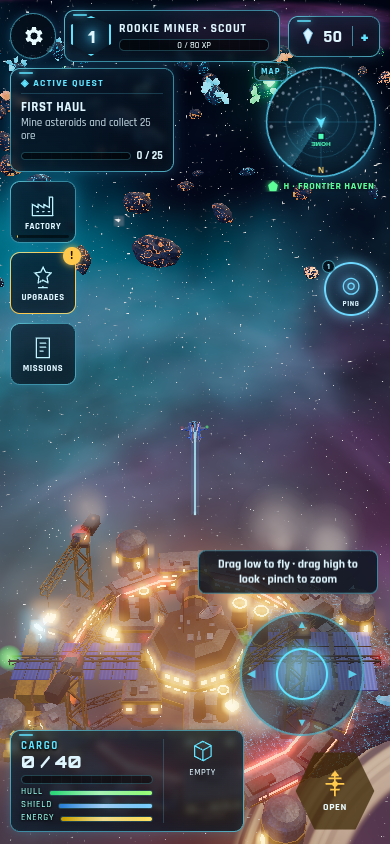
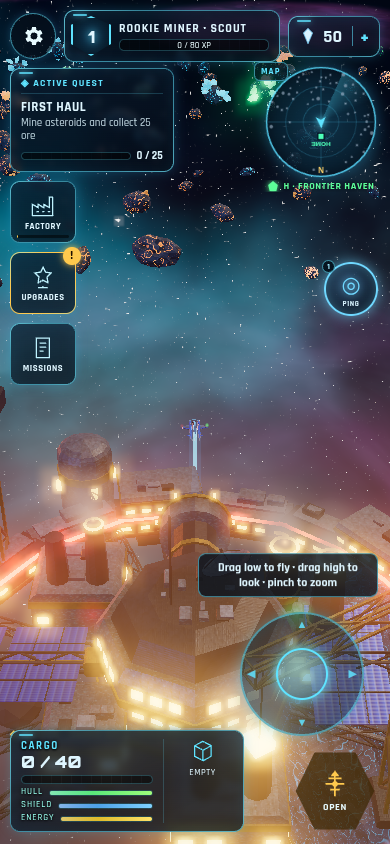
v14: restore station capital scale with glb, cache-bust v14, About text, in-game shots at true scale

diff --git a/src/game.js b/src/game.js
@@ -1,29 +1,29 @@
 // Core game: state, player ship, weapons, enemies, economy, quests, saving
 import * as THREE from 'three';
-import { clamp, lerp, damp, rand, randInt, pick, angleDiff, TAU } from './util.js?v=13';
-import { MINERALS, MINERAL_KEYS, SECTORS, sectorAt, BOSS_LAIR, TIERS, STATION_LEVELS, UPGRADES, upgradeCost, ENEMIES, xpForLevel } from './data.js?v=13';
-import { buildShip, makeTurret, makeFlames, buildPirate, buildStation, animateStation, animateNavLights, disposeObject, glowTexture, tintPirate, buildInstallation, makeDome, rarityRing, buildLootPod, buildCacheCrate, buildInstallationV5, buildFlagship, buildBossPart, factionMats, retint } from './models.js?v=13';
-import { Campaign, FLEET } from './campaign.js?v=13';
-import { roleAI } from './ai.js?v=13';
-import { BOSS_BY_BP } from './bosses.js?v=13';
-import { RING_L0, TTK, ttkHp, shipK, dmgK } from './balance.js?v=13';
-import { newGame, readKey, writeKey, deleteKey, slotKey, meta, exportCode, importCode, AUTO_KEY, SLOT_COUNT, INV_CAP } from './save.js?v=13';
-import { SKILLS, SKILL_BY_ID, ABILITIES, ABILITY_ORDER, ROLE_ABILITIES, spEarned, spSpent, skillFx, skillState, skillCost, respecCost } from './rpg.js?v=13';
-import { RARITIES, TEMPLATES, makeItem, itemStats, itemPower, upgradeCost as itemUpCost, salvageValue, rollLoot, lootChance, merchantStock } from './items.js?v=13';
-import { FACTIONS, GSECTORS, SECTOR_BY_ID, gsectorAt, caches, liberation, owner, dangerOf, isPirate, neighbours, bindWorld } from './galaxy.js?v=13';
-import { AsteroidField, Minerals } from './world.js?v=13';
-import { Particles, Debris, Rings, Bolts, Flashes, BOLT_TIME } from './fx.js?v=13';
-import { FXManager, Sequencer, EnergyShells, MetalDebris, makeShieldMaterial, ShieldFX, ShieldBubbles, prepareDamage, ensureDamage, releaseDamage, DMG_TIME, DMG_STATS, plasmaMaterial } from './vfx.js?v=13';
-import { STORY, makeContract } from './quests.js?v=13';
-import { Phenomena } from './phenomena.js?v=13';
-import { Wrecks } from './structures.js?v=13';
-import { ExplosionManager, classify, PROFILES } from './explosions.js?v=13';
-import { HULLS, HULL_IDS, buildHull, ENEMY_HULL, FLAGSHIP_HULL, FACTION_PAINT, hullSegs, MAIN_PATH } from './hulls.js?v=13';
-import { HullLOD } from './lod.js?v=13';
-import { hideTurret } from './glbhulls.js?v=13';
-import { buildStationAny } from './glbenv.js?v=13';
-import { CAM_PRESETS, DEG, angDiff } from './camctl.js?v=13';
-import { FlightModel, SpatialHash, collideCircles, sweptCircle, TIER_MASS, massOf, rockMass, assistValue } from './physics.js?v=13';
+import { clamp, lerp, damp, rand, randInt, pick, angleDiff, TAU } from './util.js?v=14';
+import { MINERALS, MINERAL_KEYS, SECTORS, sectorAt, BOSS_LAIR, TIERS, STATION_LEVELS, UPGRADES, upgradeCost, ENEMIES, xpForLevel } from './data.js?v=14';
+import { buildShip, makeTurret, makeFlames, buildPirate, buildStation, animateStation, animateNavLights, disposeObject, glowTexture, tintPirate, buildInstallation, makeDome, rarityRing, buildLootPod, buildCacheCrate, buildInstallationV5, buildFlagship, buildBossPart, factionMats, retint } from './models.js?v=14';
+import { Campaign, FLEET } from './campaign.js?v=14';
+import { roleAI } from './ai.js?v=14';
+import { BOSS_BY_BP } from './bosses.js?v=14';
+import { RING_L0, TTK, ttkHp, shipK, dmgK } from './balance.js?v=14';
+import { newGame, readKey, writeKey, deleteKey, slotKey, meta, exportCode, importCode, AUTO_KEY, SLOT_COUNT, INV_CAP } from './save.js?v=14';
+import { SKILLS, SKILL_BY_ID, ABILITIES, ABILITY_ORDER, ROLE_ABILITIES, spEarned, spSpent, skillFx, skillState, skillCost, respecCost } from './rpg.js?v=14';
+import { RARITIES, TEMPLATES, makeItem, itemStats, itemPower, upgradeCost as itemUpCost, salvageValue, rollLoot, lootChance, merchantStock } from './items.js?v=14';
+import { FACTIONS, GSECTORS, SECTOR_BY_ID, gsectorAt, caches, liberation, owner, dangerOf, isPirate, neighbours, bindWorld } from './galaxy.js?v=14';
+import { AsteroidField, Minerals } from './world.js?v=14';
+import { Particles, Debris, Rings, Bolts, Flashes, BOLT_TIME } from './fx.js?v=14';
+import { FXManager, Sequencer, EnergyShells, MetalDebris, makeShieldMaterial, ShieldFX, ShieldBubbles, prepareDamage, ensureDamage, releaseDamage, DMG_TIME, DMG_STATS, plasmaMaterial } from './vfx.js?v=14';
+import { STORY, makeContract } from './quests.js?v=14';
+import { Phenomena } from './phenomena.js?v=14';
+import { Wrecks } from './structures.js?v=14';
+import { ExplosionManager, classify, PROFILES } from './explosions.js?v=14';
+import { HULLS, HULL_IDS, buildHull, ENEMY_HULL, FLAGSHIP_HULL, FACTION_PAINT, hullSegs, MAIN_PATH } from './hulls.js?v=14';
+import { HullLOD } from './lod.js?v=14';
+import { hideTurret } from './glbhulls.js?v=14';
+import { buildStationAny } from './glbenv.js?v=14';
+import { CAM_PRESETS, DEG, angDiff } from './camctl.js?v=14';
+import { FlightModel, SpatialHash, collideCircles, sweptCircle, TIER_MASS, massOf, rockMass, assistValue } from './physics.js?v=14';
 
 export const STATION_SCALE = 2; // v8: the home station is built at capital-ship scale
 const DOCK_R = 54;
@@ -167,7 +167,8 @@ export class Game {
   // ---------- station ----------
   buildStationModel() {
     if (this.stationRoot) { this.scene.remove(this.stationRoot); disposeObject(this.stationRoot); }
-    this.stationRoot = buildStationAny(this.s.stationLvl, this.field.stationMat, (lv) => { if (lv === this.s.stationLvl && this.stationRoot && !this.stationRoot.userData.glb) this.buildStationModel(); }); // v14: Blender station when loaded this.stationRoot.scale.setScalar(STATION_SCALE); // v8: sized against capital hulls
+    this.stationRoot = buildStationAny(this.s.stationLvl, this.field.stationMat, (lv) => { if (lv === this.s.stationLvl && this.stationRoot && !this.stationRoot.userData.glb) this.buildStationModel(); }); // v14: Blender station when loaded
+    this.stationRoot.scale.setScalar(STATION_SCALE); // v8: sized against capital hulls
     const ud = this.stationRoot.userData; ud.dockPortW = ud.dockPort.clone().multiplyScalar(STATION_SCALE); for (const v of ud.anim.stacks || []) v.multiplyScalar && v.multiplyScalar(STATION_SCALE);
     this.scene.add(this.stationRoot);
   }

diff --git a/src/ui.js b/src/ui.js
@@ -1,19 +1,19 @@
 // HUD, joystick, radar and menus (DOM overlay)
-import { MINERALS, MINERAL_KEYS, TIERS, STATION_LEVELS, UPGRADES, upgradeCost, xpForLevel, LEVEL_TITLES, sectorAt } from './data.js?v=13';
-import { BRANCHES, SKILLS, SKILL_BY_ID, ABILITIES, skillCost } from './rpg.js?v=13';
-import { RARITIES, TEMPLATES, CATS, SPECIALS, itemStats, itemPower, upgradeCost as itemUpCost, salvageValue, merchantStock } from './items.js?v=13';
-import { FACTIONS, FACTION_KEYS, INSIGNIA, GSECTORS, SECTOR_BY_ID, RINGS, MAP_R, gsectorAt, installations, caches, liberation, libStages, owner, isPirate, isHome, threatLabel, neighbours, NEUTRAL, INST_KINDS, LAIRS, HOME, instName, STAGES } from './galaxy.js?v=13';
-import { factionStats, WAR_LEVELS, allied } from './war.js?v=13';
-import { BOSSES, BOSS_BY_BP, ATTACKS } from './bosses.js?v=13';
-import { MTYPES, MAX_ACTIVE, missionTitle } from './missions.js?v=13';
-import { INV_CAP } from './save.js?v=13';
-import { fmt, clamp } from './util.js?v=13';
-import { FloatText } from './fx.js?v=13';
-import { Preview } from './preview.js?v=13';
-import { HULLS, HULL_IDS, UNIT_M } from './hulls.js?v=13';
-import { PRESETS } from './quality.js?v=13';
-import { PHEN } from './phenomena.js?v=13';
-import { CAM_PRESETS, PRESET_ORDER, BIND_DEFAULTS, BIND_LABELS, RESERVED_KEYS, keyName, camDefaults } from './camctl.js?v=13';
+import { MINERALS, MINERAL_KEYS, TIERS, STATION_LEVELS, UPGRADES, upgradeCost, xpForLevel, LEVEL_TITLES, sectorAt } from './data.js?v=14';
+import { BRANCHES, SKILLS, SKILL_BY_ID, ABILITIES, skillCost } from './rpg.js?v=14';
+import { RARITIES, TEMPLATES, CATS, SPECIALS, itemStats, itemPower, upgradeCost as itemUpCost, salvageValue, merchantStock } from './items.js?v=14';
+import { FACTIONS, FACTION_KEYS, INSIGNIA, GSECTORS, SECTOR_BY_ID, RINGS, MAP_R, gsectorAt, installations, caches, liberation, libStages, owner, isPirate, isHome, threatLabel, neighbours, NEUTRAL, INST_KINDS, LAIRS, HOME, instName, STAGES } from './galaxy.js?v=14';
+import { factionStats, WAR_LEVELS, allied } from './war.js?v=14';
+import { BOSSES, BOSS_BY_BP, ATTACKS } from './bosses.js?v=14';
+import { MTYPES, MAX_ACTIVE, missionTitle } from './missions.js?v=14';
+import { INV_CAP } from './save.js?v=14';
+import { fmt, clamp } from './util.js?v=14';
+import { FloatText } from './fx.js?v=14';
+import { Preview } from './preview.js?v=14';
+import { HULLS, HULL_IDS, UNIT_M } from './hulls.js?v=14';
+import { PRESETS } from './quality.js?v=14';
+import { PHEN } from './phenomena.js?v=14';
+import { CAM_PRESETS, PRESET_ORDER, BIND_DEFAULTS, BIND_LABELS, RESERVED_KEYS, keyName, camDefaults } from './camctl.js?v=14';
 
 const $ = (id) => document.getElementById(id);
 // v8: shipyard cards are cropped straight from the Stellar Odyssey concept sheet (art/ship-concepts.jpg, 1536x1024)
@@ -877,7 +877,7 @@ export class UI {
       <div class="card"><h4>CONTROLS</h4><p>Touch: drag the lower screen to fly (virtual joystick), drag the upper screen or use a second finger to rotate the camera, pinch to zoom. Weapons fire automatically. Tap the round ability buttons; tap the radar for the galaxy map.<br>Desktop: WASD / arrow keys or left-drag to fly, right-drag to rotate, mouse wheel to zoom, Q/E rotate, R resets the camera, C puts it behind the ship, V cycles camera styles. 1–6 = abilities, Space = Quantum Dash, G = galaxy map, K = skills, I = gear, U = upgrades, M = missions, F = factory, H = station/autopilot, Esc = close.</p></div>
       <div class="card row"><span>Progress autosaves every few seconds.</span><span class="btnrow"><button class="btn sm gold" data-act="save">Save game</button><button class="btn sm" data-act="saves">Save / Load…</button></span></div>
       <div class="card row"><span>Erase all progress</span><button class="btn sm danger" data-act="reset" data-confirm="1">Reset</button></div>
-      <p class="muted">Stellar Frontier v13 · Built with three.js · Orbit camera with 4 styles, pinch zoom &amp; camera-relative controls · Blender-built hulls matched to the concept sheet · Cinematic staged explosions &amp; destruction · 15 true-scale hull classes from the Stellar Odyssey concept sheet · Living space: planets, nebulae, ion storms, gravity wells & a black hole · Destructible bases · Newtonian flight & impulse physics · Sound effects synthesised in real time</p>`;
+      <p class="muted">Stellar Frontier v14 · Built with three.js · Blender-built home station (6 growth stages) &amp; 10 asteroid &amp; crystal types from the environment concept sheet · Orbit camera with 4 styles, pinch zoom &amp; camera-relative controls · Blender-built hulls matched to the concept sheet · Cinematic staged explosions &amp; destruction · 15 true-scale hull classes from the Stellar Odyssey concept sheet · Living space: planets, nebulae, ion storms, gravity wells & a black hole · Destructible bases · Newtonian flight & impulse physics · Sound effects synthesised in real time</p>`;
   }
   // v13 CAMERA & CONTROLS settings (all persisted in settings.cam)
   renderCamCard() {

diff --git a/src/main.js b/src/main.js
@@ -3,19 +3,19 @@ import { EffectComposer } from '../vendor/addons/postprocessing/EffectComposer.j
 import { RenderPass } from '../vendor/addons/postprocessing/RenderPass.js';
 import { UnrealBloomPass } from '../vendor/addons/postprocessing/UnrealBloomPass.js';
 import { OutputPass } from '../vendor/addons/postprocessing/OutputPass.js';
-import { Game } from './game.js?v=13';
-import { ENV, preloadEnv } from './glbenv.js?v=13';
-import { GLB, preloadGlbHulls, TEX, preloadTex, setTexRenderer, texLevelFor } from './glbhulls.js?v=13';
-import { applyShipLight } from './shiplight.js?v=13';
-import { UI } from './ui.js?v=13';
-import { Audio } from './audio.js?v=13';
-import { makeSky, makeStarLayer, makeDust } from './world.js?v=13';
-import { Environment } from './environment.js?v=13';
-import { CinematicPass } from './post.js?v=13';
-import { PRESETS, detectQuality, AdaptiveQuality } from './quality.js?v=13';
-import { Profiler } from './profiler.js?v=13';
-import { SECTORS, sectorAt } from './data.js?v=13';
-import { owner } from './galaxy.js?v=13';
+import { Game } from './game.js?v=14';
+import { ENV, preloadEnv } from './glbenv.js?v=14';
+import { GLB, preloadGlbHulls, TEX, preloadTex, setTexRenderer, texLevelFor } from './glbhulls.js?v=14';
+import { applyShipLight } from './shiplight.js?v=14';
+import { UI } from './ui.js?v=14';
+import { Audio } from './audio.js?v=14';
+import { makeSky, makeStarLayer, makeDust } from './world.js?v=14';
+import { Environment } from './environment.js?v=14';
+import { CinematicPass } from './post.js?v=14';
+import { PRESETS, detectQuality, AdaptiveQuality } from './quality.js?v=14';
+import { Profiler } from './profiler.js?v=14';
+import { SECTORS, sectorAt } from './data.js?v=14';
+import { owner } from './galaxy.js?v=14';
 
 const canvas = document.getElementById('c');
 let renderer;
@@ -200,7 +200,7 @@ const damp0 = (a, b, k, dt) => a + (b - a) * (1 - Math.exp(-k * dt));
 const perf = { upd: 0, calls: 0, tris: 0 };
 // soundtrack: the manifest is tiny; each song streams only when it is about to play
 audio.musicMode = game.s.settings.musicMode;
-fetch('music/tracks.json?v=13').then((r) => (r.ok ? r.json() : Promise.reject(new Error('HTTP ' + r.status)))).then((list) => {
+fetch('music/tracks.json?v=14').then((r) => (r.ok ? r.json() : Promise.reject(new Error('HTTP ' + r.status)))).then((list) => {
   if (!Array.isArray(list) || !list.length) return; const s = game.s.settings;
   audio.setTracks(list, s.trackIdx < list.length ? s.trackIdx : 0, s.trackIdx < list.length ? s.trackPos : 0);
 }).catch((e) => console.info('No soundtrack, using generated music:', e.message));

diff --git a/src/campaign.js b/src/campaign.js
@@ -2,18 +2,18 @@
 // flagship bosses (phases, telegraphed attacks, destructible components), autonomous faction warfare with visible
 // skirmishes, friendly activity in liberated space and the dynamic mission runtime.
 import * as THREE from 'three';
-import { RING_L0, FLAGSHIP_L0, ttkHp, dmgK } from './balance.js?v=13';
-import { ENEMIES } from './data.js?v=13';
-import { FACTIONS, FACTION_KEYS, SECTOR_BY_ID, HOME, LAIRS, isHome, isPirate, installations, instName, INST_KINDS, libStages, neighbours, sectorCenter, gsectorAt, STAGES, caches } from './galaxy.js?v=13';
-import { WAR_LEVELS, warTick, warHit, bossCollapse } from './war.js?v=13';
-import { BOSSES, ATTACKS, commanderFor } from './bosses.js?v=13';
-import { HULLS, buildHull } from './hulls.js?v=13';
+import { RING_L0, FLAGSHIP_L0, ttkHp, dmgK } from './balance.js?v=14';
+import { ENEMIES } from './data.js?v=14';
+import { FACTIONS, FACTION_KEYS, SECTOR_BY_ID, HOME, LAIRS, isHome, isPirate, installations, instName, INST_KINDS, libStages, neighbours, sectorCenter, gsectorAt, STAGES, caches } from './galaxy.js?v=14';
+import { WAR_LEVELS, warTick, warHit, bossCollapse } from './war.js?v=14';
+import { BOSSES, ATTACKS, commanderFor } from './bosses.js?v=14';
+import { HULLS, buildHull } from './hulls.js?v=14';
 const BS = 2; // installation build scale (v8)
 const clamp = (v, a, b) => Math.max(a, Math.min(b, v));
-import { MTYPES, MAX_ACTIVE, genOffers, missionTitle } from './missions.js?v=13';
-import { makeItem, RARITIES, rollTemplate } from './items.js?v=13';
-import { INV_CAP } from './save.js?v=13';
-import { buildInstallationV5, buildCivilian, buildShip, makeDome, buildCacheCrate } from './models.js?v=13';
+import { MTYPES, MAX_ACTIVE, genOffers, missionTitle } from './missions.js?v=14';
+import { makeItem, RARITIES, rollTemplate } from './items.js?v=14';
+import { INV_CAP } from './save.js?v=14';
+import { buildInstallationV5, buildCivilian, buildShip, makeDome, buildCacheCrate } from './models.js?v=14';
 
 const TAU = Math.PI * 2; const rand = (a, b) => a + Math.random() * (b - a); const randInt = (a, b) => Math.floor(rand(a, b + 1));
 const pick = (a) => a[Math.floor(Math.random() * a.length)];

diff --git a/src/save.js b/src/save.js
@@ -1,12 +1,12 @@
 // Save system: versioned state, migration, validation, manual slots, export/import codes
-import { MINERAL_KEYS, UPGRADES, TIERS } from './data.js?v=13';
-import { HULLS, LEGACY_TIER_HULL } from './hulls.js?v=13';
-import { TEMPLATES, LEGACY, makeItem, RARITIES } from './items.js?v=13';
-import { SKILL_BY_ID } from './rpg.js?v=13';
-import { SECTOR_BY_ID, freshGalaxy, legacyOutpost, FACTION_KEYS } from './galaxy.js?v=13';
-import { freshWar } from './war.js?v=13';
-import { MTYPES, freshMissions } from './missions.js?v=13';
-import { camDefaults, sanitizeCam } from './camctl.js?v=13';
+import { MINERAL_KEYS, UPGRADES, TIERS } from './data.js?v=14';
+import { HULLS, LEGACY_TIER_HULL } from './hulls.js?v=14';
+import { TEMPLATES, LEGACY, makeItem, RARITIES } from './items.js?v=14';
+import { SKILL_BY_ID } from './rpg.js?v=14';
+import { SECTOR_BY_ID, freshGalaxy, legacyOutpost, FACTION_KEYS } from './galaxy.js?v=14';
+import { freshWar } from './war.js?v=14';
+import { MTYPES, freshMissions } from './missions.js?v=14';
+import { camDefaults, sanitizeCam } from './camctl.js?v=14';
 
 export const SAVE_VERSION = 8; // v8 = hull classes (s.hull + owned s.hulls replace the 5 tiers; T1..T5 map to Scout/Strike Fighter/Gunship/Cruiser/Battlecruiser); v7 = shake level (full/reduced/off), frame cap, notification settings; v6 = flight-assist setting (physics overhaul); v3 builds still wrote v2 (audio settings were additive); v5 = campaign (stages, war, missions, bosses)
 export const INV_CAP = 48;

diff --git a/src/preview.js b/src/preview.js
@@ -1,11 +1,11 @@
 // Rotating 3D previews (shipyard + station) rendered by one small, lazily created WebGL renderer.
 // Its canvas is moved into whichever menu slot needs it and only renders while visible.
 import * as THREE from 'three';
-import { HULLS, HULL_IDS, buildHull } from './hulls.js?v=13';
-import { TEX, TEX_IDS, preloadTex } from './glbhulls.js?v=13';
-import { ENV, buildStationAny } from './glbenv.js?v=13';
-import { skyEnv } from './shiplight.js?v=13';
-import { buildShip, buildStation, makeFlames, makeTurret, animateNavLights, animateStation, makeRockMaterial } from './models.js?v=13';
+import { HULLS, HULL_IDS, buildHull } from './hulls.js?v=14';
+import { TEX, TEX_IDS, preloadTex } from './glbhulls.js?v=14';
+import { ENV, buildStationAny } from './glbenv.js?v=14';
+import { skyEnv } from './shiplight.js?v=14';
+import { buildShip, buildStation, makeFlames, makeTurret, animateNavLights, animateStation, makeRockMaterial } from './models.js?v=14';
 
 const KIT = ['laser', 'cannon', 'missile', 'cannon', 'missile', 'pulse'];
 export class Preview {

diff --git a/lineup.html b/lineup.html
@@ -34,10 +34,10 @@
 <div id="hint"></div>
 <script type="module">
 import * as THREE from 'three';
-import { HULLS, HULL_IDS, UNIT_M, buildHull, FACTION_PAINT, PAINT_NAMES } from './src/hulls.js?v=13';
-import { makeFlames, animateNavLights } from './src/models.js?v=13';
-import { GLB, preloadGlbHulls, TEX, preloadTex, setTexRenderer } from './src/glbhulls.js?v=13';
-import { skyEnv } from './src/shiplight.js?v=13';
+import { HULLS, HULL_IDS, UNIT_M, buildHull, FACTION_PAINT, PAINT_NAMES } from './src/hulls.js?v=14';
+import { makeFlames, animateNavLights } from './src/models.js?v=14';
+import { GLB, preloadGlbHulls, TEX, preloadTex, setTexRenderer } from './src/glbhulls.js?v=14';
+import { skyEnv } from './src/shiplight.js?v=14';
 if (GLB.enabled) { try { await preloadGlbHulls(); } catch (e) { /* procedural fallback */ } }
 const q = new URLSearchParams(location.search); const mode = q.get('mode') || 'lineup';
 const canvas = document.getElementById('c'); const R = new THREE.WebGLRenderer({ canvas, antialias: true, preserveDrawingBuffer: true });

diff --git a/blender-test.html b/blender-test.html
@@ -26,10 +26,10 @@ canvas{display:block;width:100vw;height:100vh}
 <div class="lab" id="l0">Procedural (live game, v9)</div><div class="lab" id="l1">Blender glb (test)</div><div id="st">loading…</div>
 <script type="module">
 import * as THREE from 'three';
-import { buildHull, schemeIds, HULLS } from './src/hulls.js?v=13';
-import { GLB, preloadGlbHulls } from './src/glbhulls.js?v=13';
-import { makeFlames } from './src/models.js?v=13';
-import { ensureDamage, DMG_TIME } from './src/vfx.js?v=13';
+import { buildHull, schemeIds, HULLS } from './src/hulls.js?v=14';
+import { GLB, preloadGlbHulls } from './src/glbhulls.js?v=14';
+import { makeFlames } from './src/models.js?v=14';
+import { ensureDamage, DMG_TIME } from './src/vfx.js?v=14';
 const P = new URLSearchParams(location.search);
 const cv = document.getElementById('c');
 const renderer = new THREE.WebGLRenderer({ canvas: cv, antialias: true, preserveDrawingBuffer: true });

diff --git a/src/phenomena.js b/src/phenomena.js
@@ -2,9 +2,9 @@
 // Zones are deterministic per galaxy sector. Each has a visible boundary, an approach warning, and limited, consistent
 // physics that applies to the player, enemies, projectiles and asteroids alike.
 import * as THREE from 'three';
-import { mulberry, clamp, rand, TAU } from './util.js?v=13';
-import { GSECTORS, installations, LAIRS } from './galaxy.js?v=13';
-import { nebulaTexture } from './environment.js?v=13';
+import { mulberry, clamp, rand, TAU } from './util.js?v=14';
+import { GSECTORS, installations, LAIRS } from './galaxy.js?v=14';
+import { nebulaTexture } from './environment.js?v=14';
 
 export const PHEN = {
   ion:       { name: 'Ion Storm', short: 'ION STORM', icon: '⚡', col: [0.55, 0.7, 3.2], css: '#8fb4ff', warn: 'Lightning strikes (watch the warning circles) · sensors jammed', inside: 'SENSORS JAMMED · LIGHTNING' },

diff --git a/src/hulls.js b/src/hulls.js
@@ -2,9 +2,9 @@
 // Every hull is designed at a normalised length of 10 (nose +z, tail -z) and built by a scaled Kit at its real length.
 // 1 world unit = 5 m. Scout = 4 u (20 m) ... Dreadnought = 144 u (720 m).
 import * as THREE from 'three';
-import { Kit, materials, hullTextures, makeTurret } from './models.js?v=13';
-import { mulberry } from './util.js?v=13';
-import { applyGlb, hideTurret, TEX } from './glbhulls.js?v=13';
+import { Kit, materials, hullTextures, makeTurret } from './models.js?v=14';
+import { mulberry } from './util.js?v=14';
+import { applyGlb, hideTurret, TEX } from './glbhulls.js?v=14';
 
 export const UNIT_M = 5;
 export const HULL_CLASSES = { small: 'Small Ships', medium: 'Medium Ships', large: 'Large Ships', special: 'Specialized Ships', capital: 'Capital Ships', titan: 'Titan Class' };

diff --git a/src/world.js b/src/world.js
@@ -1,9 +1,9 @@
 // Background (nebula skybox, wrapped star layers, dust), asteroid chunk streaming, mineral pickups
 import * as THREE from 'three';
-import { mulberry, hash2, rand, TAU } from './util.js?v=13';
-import { MINERALS, sectorAt } from './data.js?v=13';
-import { makeRockGeometry, makeRockMaterial, rockUniforms } from './models.js?v=13';
-import { ENV, ROCK_BY_TYPE } from './glbenv.js?v=13';
+import { mulberry, hash2, rand, TAU } from './util.js?v=14';
+import { MINERALS, sectorAt } from './data.js?v=14';
+import { makeRockGeometry, makeRockMaterial, rockUniforms } from './models.js?v=14';
+import { ENV, ROCK_BY_TYPE } from './glbenv.js?v=14';
 import { mergeGeometries } from '../vendor/addons/utils/BufferGeometryUtils.js';
 
 export function makeSky() {

diff --git a/src/war.js b/src/war.js
@@ -2,7 +2,7 @@
 // Factions earn income from held sectors + resource facilities, launch attacks on neighbouring rival/unclaimed
 // sectors, form short alliances against the strongest power and retaliate. Liberated space, the Haven and faction
 // home sectors never change hands, and every faction is capped at a few sectors above its starting territory.
-import { FACTIONS, FACTION_KEYS, GSECTORS, SECTOR_BY_ID, HOME, installations, neighbours, isHome } from './galaxy.js?v=13';
+import { FACTIONS, FACTION_KEYS, GSECTORS, SECTOR_BY_ID, HOME, installations, neighbours, isHome } from './galaxy.js?v=14';
 
 // conflict frequency presets (Settings > Faction warfare)
 export const WAR_LEVELS = {
